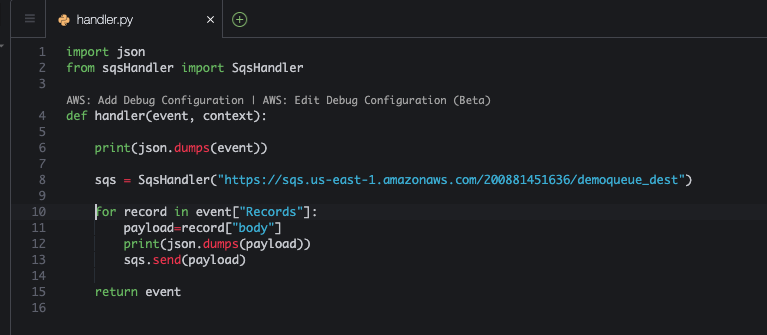
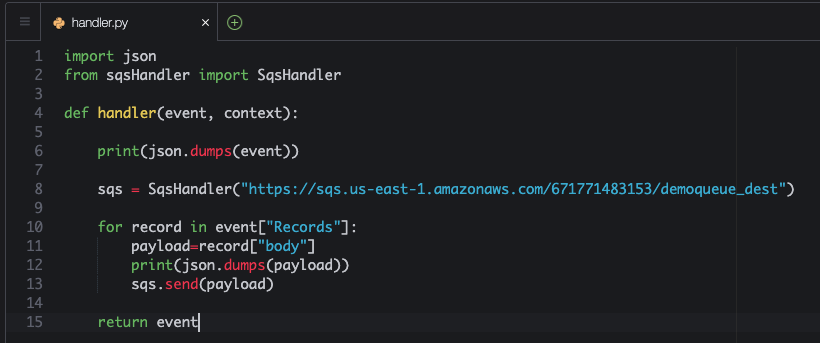
SQS - Lambda

diff --git a/04-SQS/03-Lambda/README.md b/04-SQS/03-Lambda/README.md
@@ -1,18 +1,58 @@
 # Aula 04.3 - Lambda
 
-1. No terminal do IDE criado no cloud9 execute o comando `cd ~/environment/fiap-cloud-computing-tutorials/05-SQS/03\ -\ Lambda` para entrar na pasta que fara este exercicio.
+1. No terminal do IDE criado no cloud9 execute o comando `cd ~/environment/usp-serverless-computing/04-SQS/03-Lambda/` para entrar na pasta que fara este exercicio.
 2. Execute o comando `sls create --template "aws-python3"` no terminal para criar os arquivos do serverless framework.
-3. Altere o handler.py para ficar como na imagem. Não esqueça de colocar a URL da sua fila de destino. Abra com o comando `c9 open handler.py`. Para conseguir a URL da fila de destino você pode utilizar o comando `aws sqs get-queue-url --queue-name demoqueue_dest | jq .QueueUrl`
+3. Altere o handler.py para ficar como na imagem. Não esqueça de colocar a URL da sua fila de destino. Abra com o comando `c9 open handler.py`. Para conseguir a URL da fila de destino você pode utilizar o comando `aws sqs get-queue-url --queue-name demoqueue_dest | jq .QueueUrl -r`
+   
    ![at](img/lambda-01.png)
+<blockquote>
+O código define uma função `handler` que é projetada para ser usada como um manipulador de eventos AWS Lambda. Quando um evento é acionado, a função:
+
+1. **Imprime o evento**: Primeiro, converte o objeto `event` para JSON e o imprime. Isso é útil para debugging, permitindo ver a estrutura e o conteúdo do evento recebido pela função.
+
+2. **Inicializa o `SqsHandler`**: Cria uma instância da classe `SqsHandler`, passando a URL de uma fila SQS chamada `demoqueue_dest`. Essa classe é responsável por abstrair operações de envio de mensagens para uma fila SQS.
+
+3. **Processa os registros do evento**: Itera sobre cada `record` em `event["Records"]`, extrai o corpo da mensagem (`record["body"]`), o converte para JSON e o imprime. Em seguida, envia o corpo da mensagem para a fila SQS especificada na inicialização do `SqsHandler`.
+
+4. **Retorna o evento**: A função retorna o objeto `event` recebido como entrada, o que pode ser útil para encadeamento de eventos ou para confirmação de que o evento foi processado.
+
+Essencialmente, o script é um exemplo de como uma função Lambda pode ser usada para processar eventos (como mensagens de outra fila SQS), realizar uma ação com cada mensagem (neste caso, reenviar para outra fila) e registrar o processo.
+</blockquote>
+
 4. Altere o serverless.yml para que fique como na imagem. Para abrir utilize `c9 open serverless.yml `. Para pegar o ARN da fila demoqueue utilize o comando abaixo:
 ``` shell
-demoqueueURL=`aws sqs get-queue-url --queue-name demoqueue_dest | jq -r .QueueUrl` && aws sqs get-queue-attributes --queue-url $demoqueueURL --attribute-names QueueArn | jq -r .Attributes.QueueArn
+demoqueueURL=`aws sqs get-queue-url --queue-name demoqueue | jq -r .QueueUrl` && aws sqs get-queue-attributes --queue-url $demoqueueURL --attribute-names QueueArn | jq -r .Attributes.QueueArn
 ```
    ![at](img/lambda-02.png)
-5. Vá a sua aba do SQS e configure sua demoqueue para ficar como na imagem, isso é necessário pois o tempo de visibilidade padrão estava em 1 segundo para forçar erros no teste da DLQ do ultimo exercicio:
+<blockquote>
+Este código do Serverless Framework configura um serviço chamado `sqstesttrigger` para AWS com as seguintes características:
+
+1. **service: sqstesttrigger** - Define o nome do serviço como `sqstesttrigger`.
+2. **frameworkVersion: '3'** - Especifica a versão do Serverless Framework utilizada.
+3. **provider:** - Configura o provedor de nuvem (AWS) com detalhes como:
+   - **runtime: python3.11** - Usa Python 3.11 como ambiente de execução para a função Lambda.
+   - **memorySize: 128** - Aloca 128 MB de memória para a função.
+   - **region: 'us-east-1'** - Define a região da AWS como 'us-east-1'.
+   - **iam:** - Configurações IAM para a função, permitindo enviar mensagens para qualquer fila SQS e utilizando políticas gerenciadas para execução com filas SQS.
+4. **functions:** - Define as funções Lambda no serviço:
+   - **sqsHandler:** - Nome da função com o manipulador `handler.handler`.
+     - **events:** - Configura eventos que acionam a função, especificamente:
+       - **sqs:** - Configura um gatilho SQS com:
+         - **arn:** - ARN da fila SQS `demoqueue` que aciona a função.
+         - **batchSize: 1** - Processa uma mensagem por vez.
+         - **enabled: true** - Habilita o gatilho.
+
+Este setup permite que a função `sqsHandler` seja acionada automaticamente ao receber mensagens na fila `demoqueue`, processando-as individualmente com as permissões adequadas para interagir com o SQS.
+</blockquote>
+
+5. Vá a sua [aba do SQS](https://us-east-1.console.aws.amazon.com/sqs/v3/home?region=us-east-1#/queues/https%3A%2F%2Fsqs.us-east-1.amazonaws.com%2F671771483153%2Fdemoqueue) para editar a fila e configure sua demoqueue para ficar como na imagem, isso é necessário pois o tempo de visibilidade padrão estava em 1 segundo para forçar erros no teste da DLQ do ultimo exercicio, configure para 30 segundos.:
+   
    ![at](img/lambda-03.png)
-6. Execute o comando `sls deploy` no terminal
-7. Altere o arquivo put.py colocando a URL da sua fila demoqueue. Abra com `c9 open put.py`
-8. Execute o comando `python3 put.py` no terminal e observe no [painel do sqs](https://us-east-1.console.aws.amazon.com/sqs/v3/home?region=us-east-1#/queues) que as mensagens estão indo para a fila de destino.
+
+6. Execute o comando `sls deploy` no terminal para fazer o deploy da função lambda conectada a fila demoqueue.
+7. Altere o arquivo put.py colocando a URL da sua fila demoqueue. Abra o arquivo com `c9 open put.py`
+8. Execute o comando `python3 put.py` no terminal e observe no [painel do sqs](https://us-east-1.console.aws.amazon.com/sqs/v3/home?region=us-east-1#/queues) que as mensagens estão indo para a fila de destino. Tenha em mente que pode levar algum tempo para que todas as mensagens sejam processadas e movidas para a fila de destino.
+
    ![at](img/lambda-04.png)
+
 9.  Para excluir a stack do lambda execute o comando `sls remove` no terminal.
